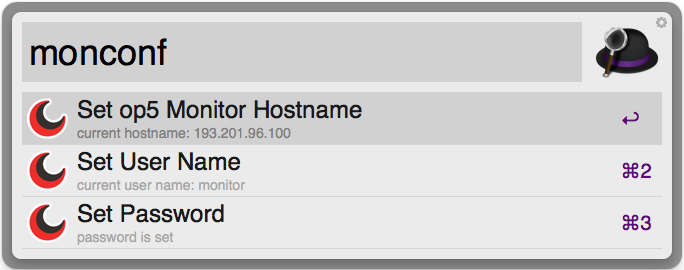
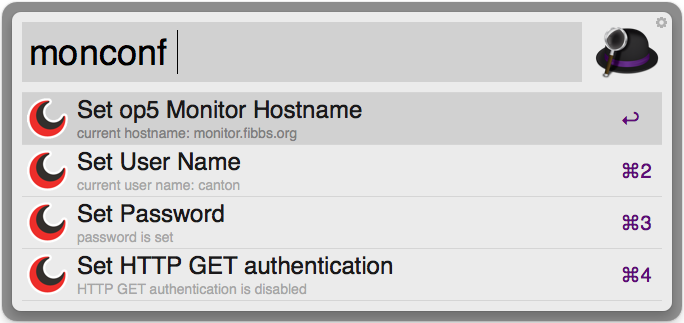
Updated README

diff --git a/README.md b/README.md
@@ -97,13 +97,19 @@ This feature is not yet implemented!
 
 ## Configuration module
 By calling the workflow with the `monconf` command you will be presented
-with the options to configure following necessary values:
+with the options to configure the following necessary values:
 
 - hostname (op5 Monitor FQDN or IP address)
 - username for op5 Monitor login
 - password
+- op5 Monitor "HTTP GET authentication"
 
 ![alt text][op5-workflow-img009]
+
+### HTTP GET authentication
+op5 Monitor supports HTTP GET authentication so you can authenticate to your op5 Monitor Web UI without being presented a login prompt, just by submitting the username and password within the URL using GET parameters. Note: Authenticating using GET parameters can be a security risk, since the username and password will be part of the URL and therefore can be exposed in various places such as the address bar of the web browser, web server log files and saved bookmarks.
+
+More information on this feature and an explanation on how to enable it in your op5 Monitor installation can be found ([here](https://kb.op5.com/display/HOWTOs/Fetching+CSV+reports+over+HTTP)) in the op5 Knowledge Base.
 
 ## Commands
 - `mon {query}`
